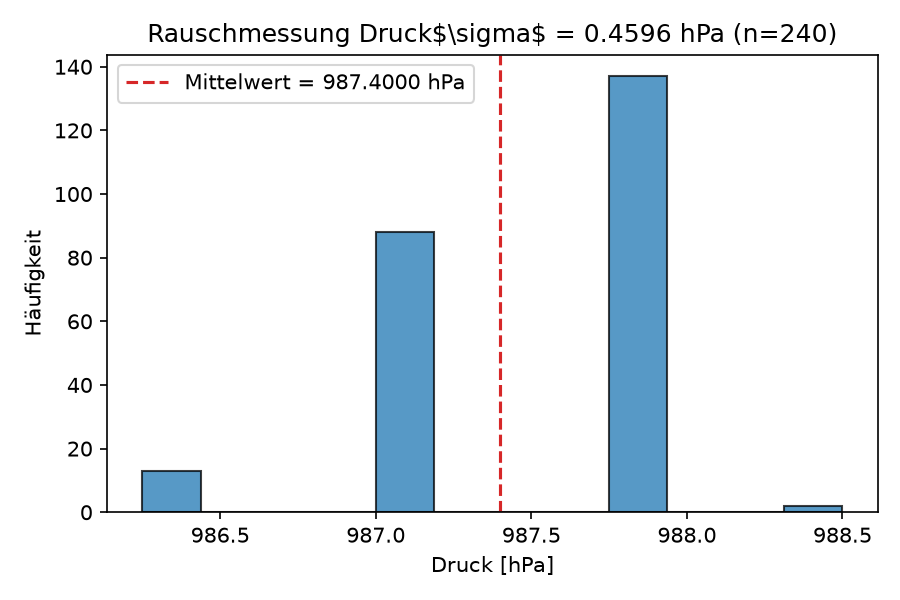
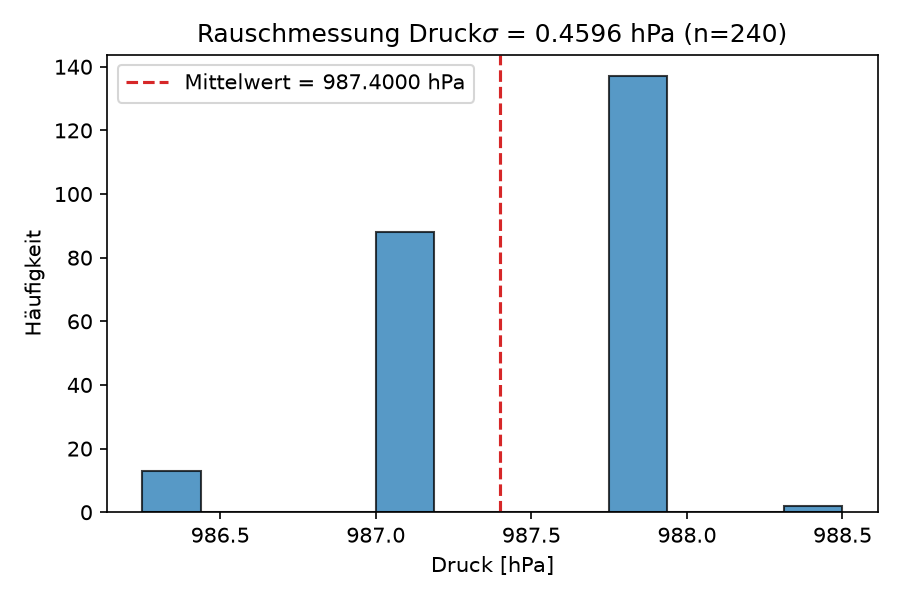
final

Changed region(s): [[0.1556, 0.03, 0.9333, 0.09]]

diff --git a/V1_W-Lehre1/Leon/Dampfdruckkurve_real.py b/V1_W-Lehre1/Leon/Dampfdruckkurve_real.py
@@ -64,7 +64,7 @@ def rauschmessung(werte, name, einheit,dateiname):
     ax.axvline(mittel, color="tab:red",ls='--', label=f'Mittelwert = {mittel:.4f} {einheit}')
     ax.set_xlabel(f'{name} [{einheit}]')
     ax.set_ylabel("Häufigkeit")
-    ax.set_title(f'Rauschmessung {name}\$\sigma$ = {sigma:.4f} {einheit} (n={len(werte)})')
+    ax.set_title(f'Rauschmessung {name}$\sigma$ = {sigma:.4f} {einheit} (n={len(werte)})')
     ax.legend()
     fig.tight_layout()
     fig.savefig(OUTPUT / dateiname, dpi=150)
@@ -183,3 +183,12 @@ dLambdas_sys = np.sqrt(dLambda_p**2+dLambda_T**2)
 dLambda_stat = abs(ea*R_Gas)
 dLambda_ges = np.sqrt(dLambdas_sys**2+dLambda_stat**2)
 print(f"Gesamtfehler auf Lambda: dLambda_ges = {dLambda_ges:.2f} J/mol (statistisch: {dLambda_stat:.2f}, systematisch: {dLambdas_sys:.2f})")
+print(f"Lambda_sys = {dLambda_p:.2f} (Druck) + {dLambda_T:.2f} (Temperatur) = {dLambdas_sys:.2f} J/mol")
+T_mittel = np.mean(T_fit_K)- 273.15
+Lambda_mittel_LIT = lw.verdampfungsenthalpie_wasser(T_mittel)*1000
+
+print(f"Lambda = {lambda_0/1000:.3f} kJ/mol")
+print(f"statistisch +- {dLambda_stat/1000:.3f} kJ/mol")
+print(f"systematisch +- {dLambdas_sys/1000:.3f} kJ/mol")
+print(f"Gesamtfehler +- {dLambda_ges/1000:.3f} kJ/mol")
+print(f"Litwert: {Lambda_mittel_LIT/1000:.3f} kJ/mol bei T_mittel = {T_mittel:.1f} °C")
